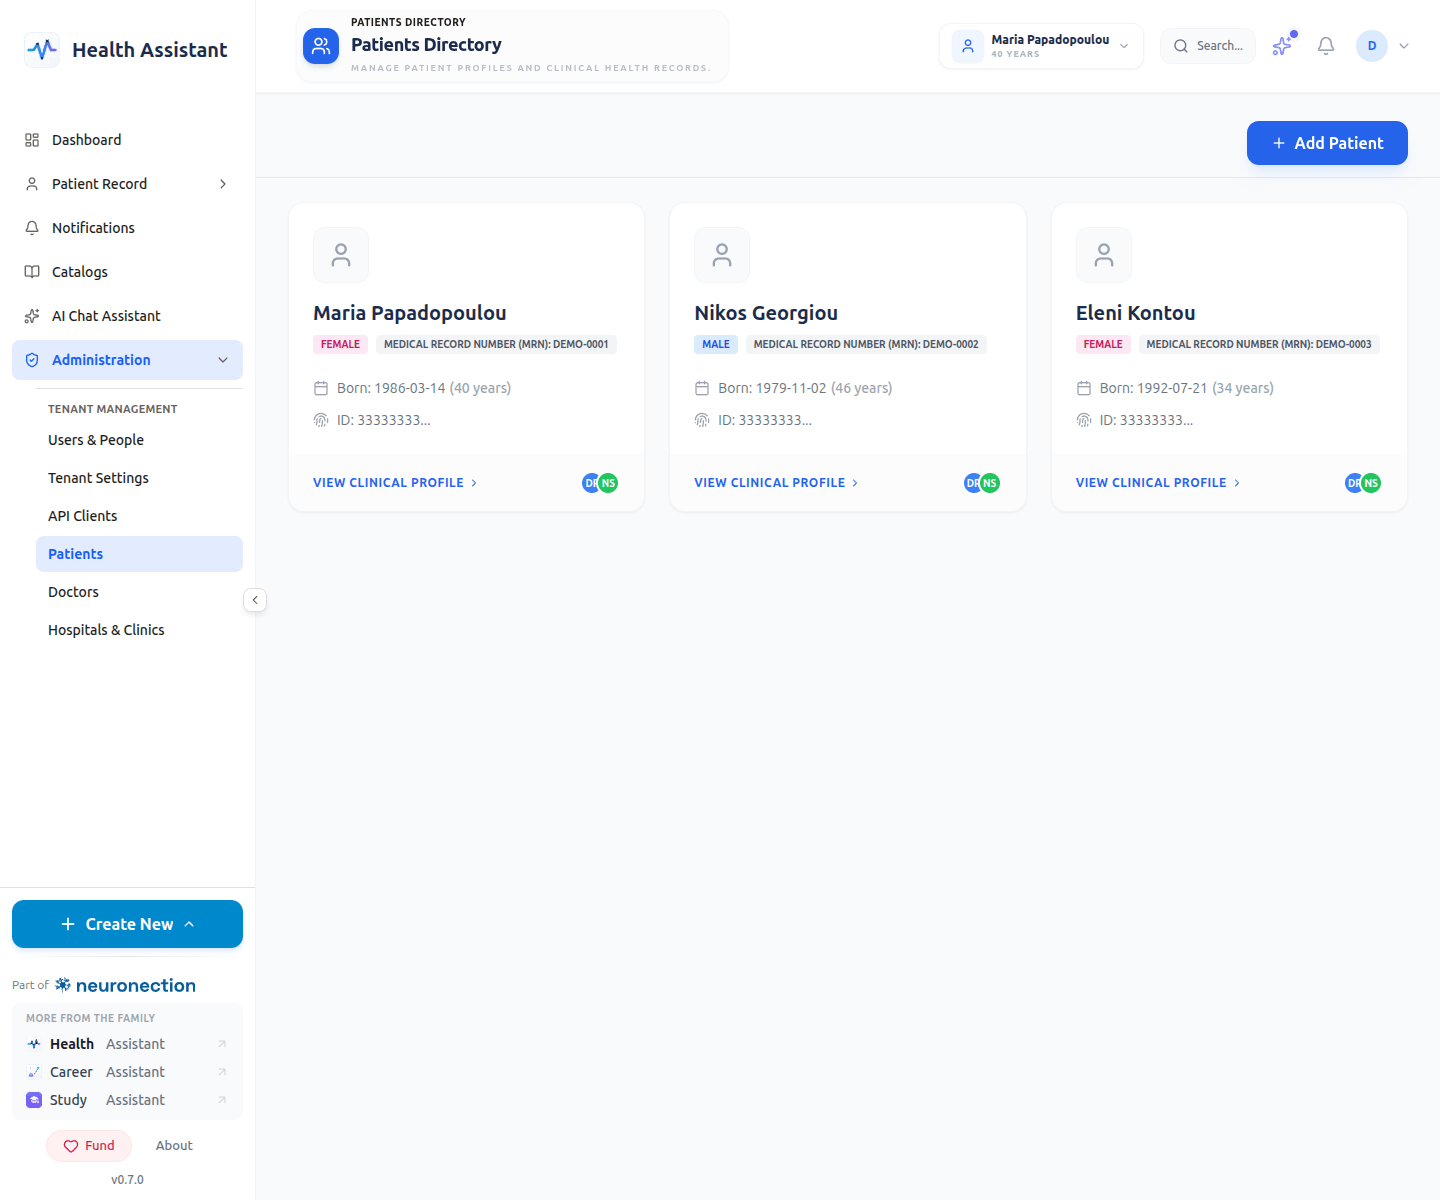
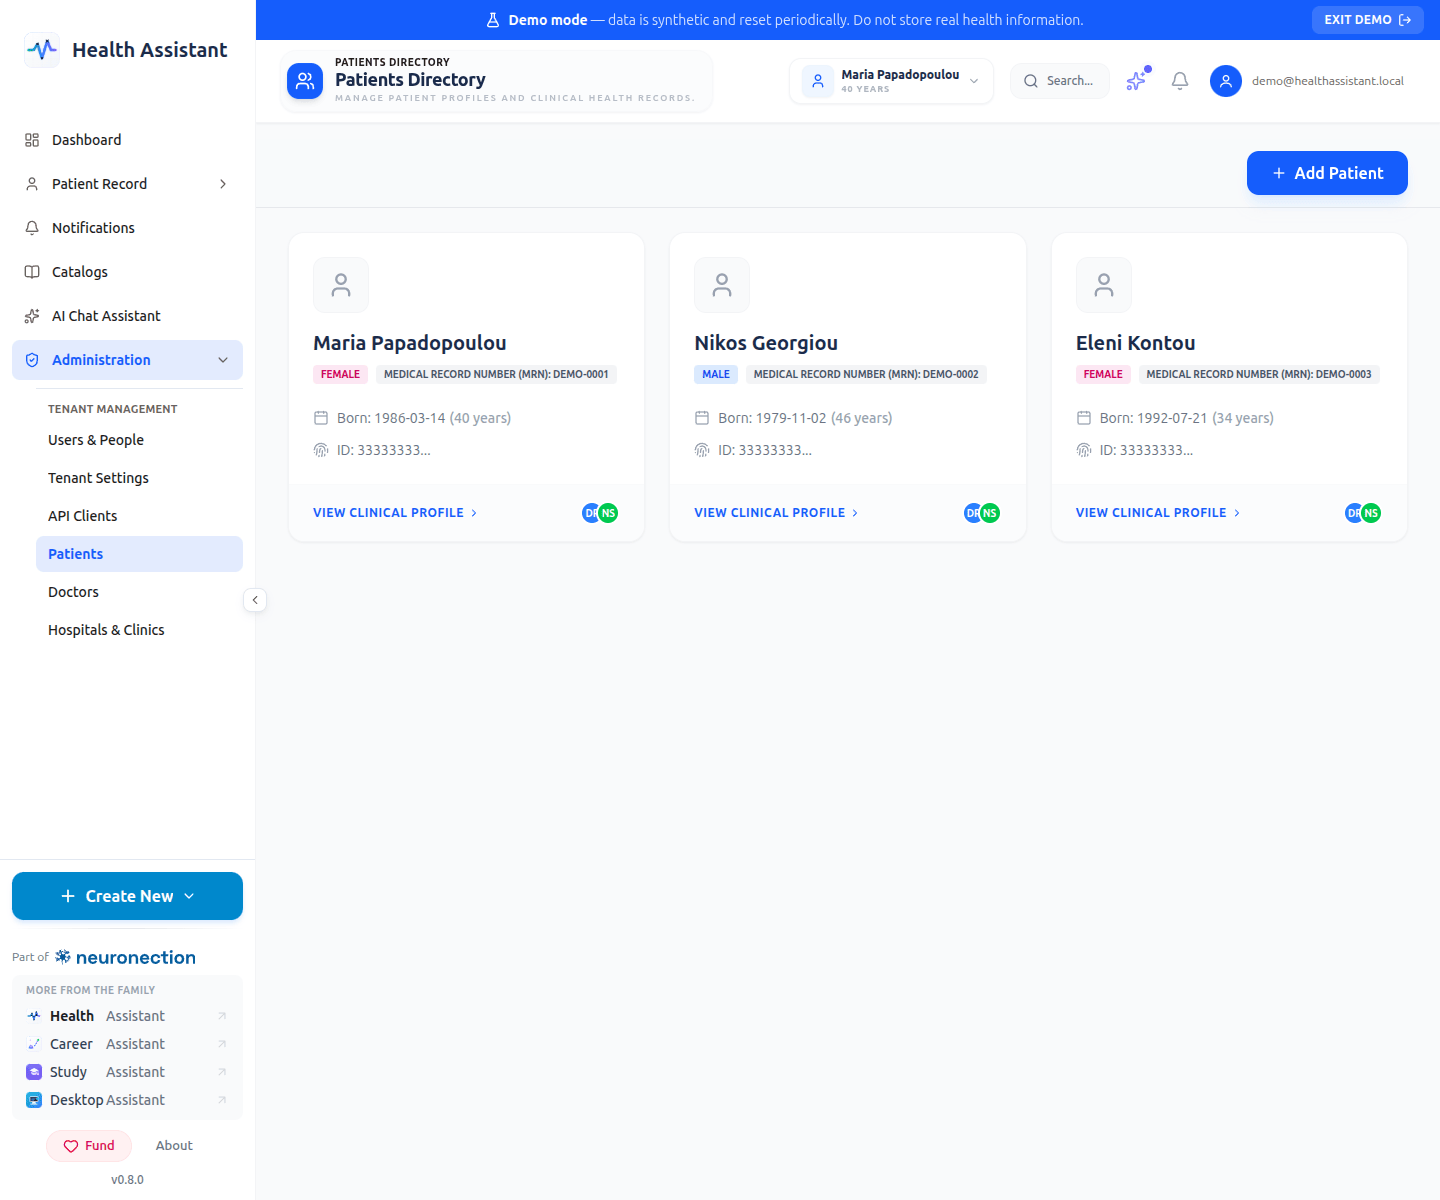
fix(demo): capture against the demo instance (neuro_health_demo)
- seed_demo.sh: HA_DEMO_DATABASE_URL / HA_DEMO_INIT overrides target a
  dedicated *_demo database (§13 guards still enforced); the dev-DB
  refusal previously blocked every capture run
- capture config: healthUrls → the frontend base (the /api/v1/health
  path 404s on this API version); ai-chat scene waits for the composer
  before typing (the page mounts it late)
- regenerated docs/images from the demo instance (gallery + manifest +
  GIF on template v1.2.4 rendering)

diff --git a/CHANGELOG.md b/CHANGELOG.md
@@ -14,6 +14,12 @@ and this project adheres to [Semantic Versioning](https://semver.org/spec/v2.0.0
 
 ### Added
 - **Demo tour manifest + AI-video storyboard hooks (ui-capture template v1.2.0):** every capture run now emits `docs/images/tour.manifest.json` — a deterministic machine-readable tour inventory (ordered scenes, captions, per-scene `narration` lines, viewports, files) consumed by the Neuronection website and the future AI-generated video tours. Scene catalog gained the optional `narration` field (all 10 scenes annotated).
+- **Tour re-captured on a real demo instance (template v1.2.5):** the
+  frames now show each page's actual demo content (previously every
+  frame captured the dashboard — the auth boot hijacked deep links).
+  Login scene dropped: demo mode auto-logins (§13), so `/login` bounces
+  to the dashboard — there is no login screen to capture on a demo
+  instance.
 
 ### Changed
 - **Shared country/language catalogs adopted (family ADR-0024):** the

diff --git a/docs/SCREENSHOTS.md b/docs/SCREENSHOTS.md
@@ -10,14 +10,6 @@ Welcome to the visual tour of Health Assistant. These reproducible screenshots s
 
 > Mobile views: not captured this run — pass `--viewport mobile` to `npm run capture:ui` to generate.
 
-## Authentication
-
-### login
-
-_Sign-in screen — OAuth2 password grant against the FastAPI backend._
-
-![login desktop](images/login-desktop.png)
-
 ## Overview
 
 ### dashboard
